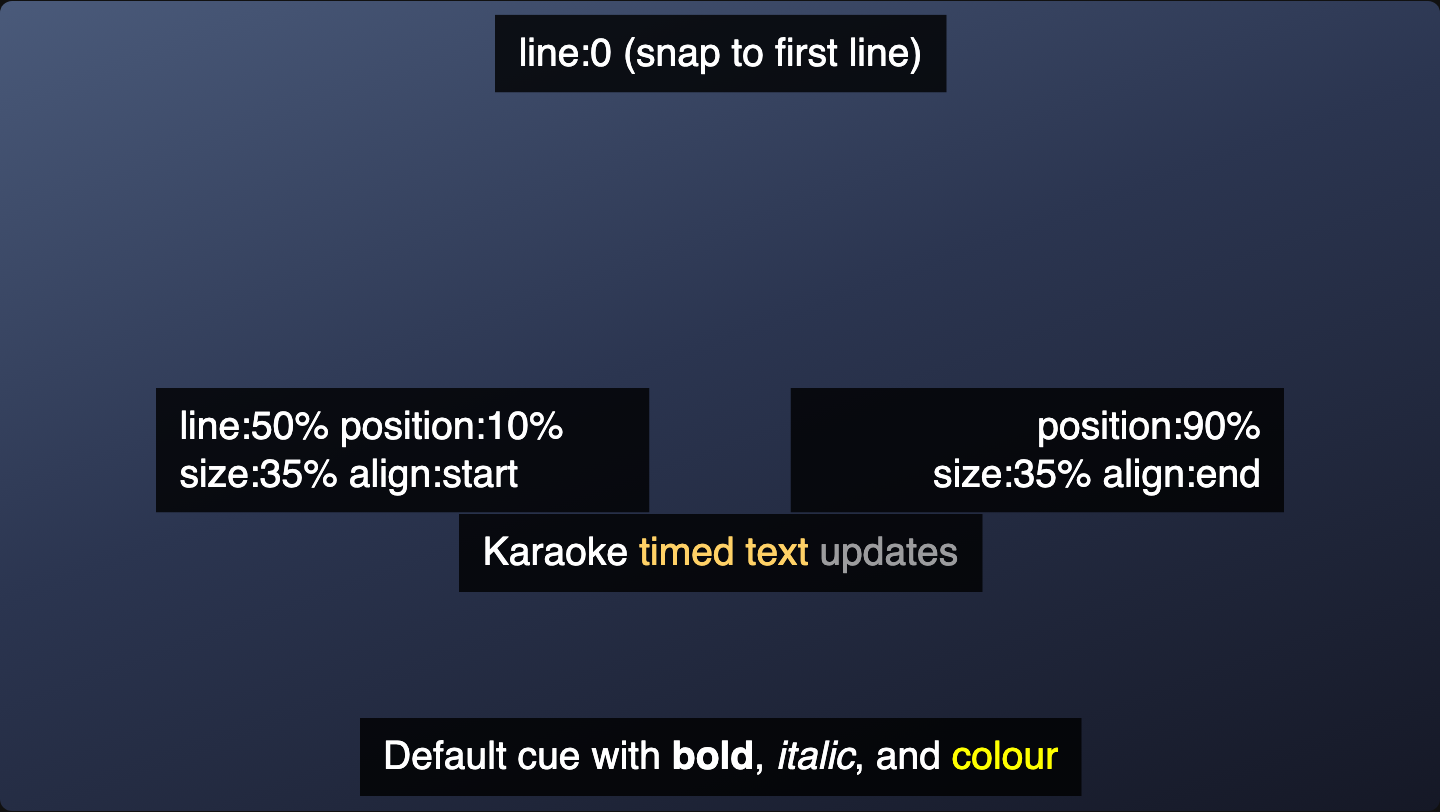
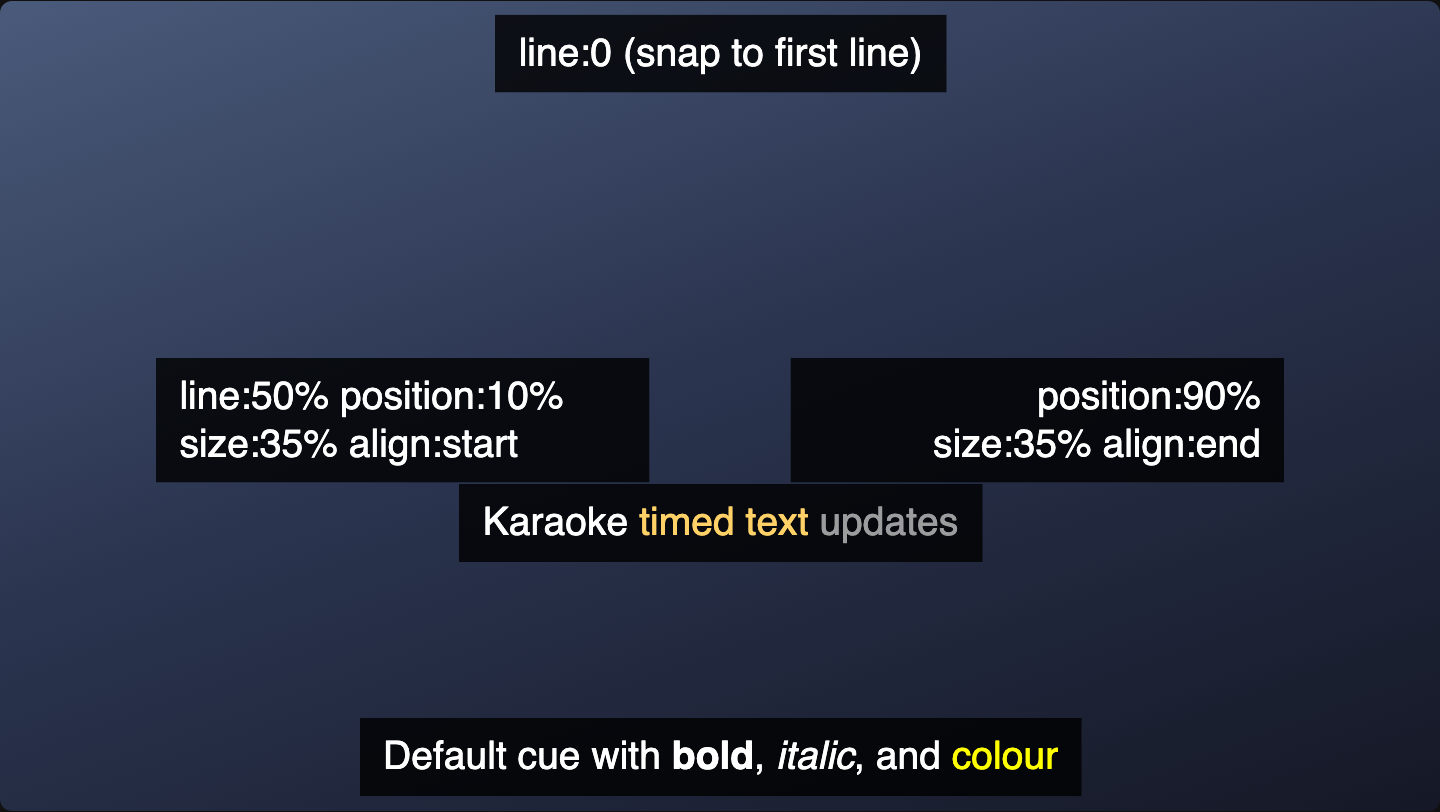
docs(sandbox): layout model, live track, and custom element scenarios with screenshots

Changed region(s): [[0.0938, 0.431, 0.9062, 0.7389]]

diff --git a/.sandbox/main.ts b/.sandbox/main.ts
@@ -1,4 +1,5 @@
-import { CaptionsRenderer, parseText, VTTCue, VTTRegion } from '../src';
+import { CaptionsRenderer, CueTrack, parseText, VTTCue, VTTRegion } from '../src';
+import { defineMediaCaptionsElement } from '../src/element';
 
 type Scenario = (
   mount: (label?: string, small?: boolean) => CaptionsRenderer,
@@ -147,6 +148,86 @@ Dialogue: 0,0:00:00.00,0:00:10.00,Default,,0,0,0,,{\\an1}{\\k60}Ka{\\k60}ra{\\k6
       renderer.overlay.style.setProperty('--cue-bg-color', 'transparent');
       renderer.changeTrack({ cues: [cue(0, 10, `${style} edge style`)] });
     }
+  },
+
+  layout(mount) {
+    // The structured cue model: parsers of positioned formats emit these instead of CSS.
+    const renderer = mount();
+    const centered = cue(0, 10, 'layout: left 50%, translate x -0.5, max-content');
+    centered.layout = { left: 50, bottom: 6, width: 'max-content', translate: { x: -0.5 } };
+    centered.textStyle = {
+      color: '#ffd166',
+      textStroke: '0.08em #1c1f2b',
+      backgroundColor: 'transparent',
+    };
+
+    const fixed = cue(0, 10, 'layout.fixed: pinned at 70% / 35%, never moved by collisions');
+    fixed.layout = {
+      left: 70,
+      top: 35,
+      width: 'max-content',
+      translate: { x: -0.5, y: -0.5 },
+      fixed: true,
+    };
+    fixed.textStyle = { fontSize: '4cqh', opacity: '0.9' };
+
+    const boxed = cue(0, 10, 'textStyle: outline box, bold, letter spacing');
+    boxed.layout = { left: 4, top: 8, width: 'max-content', maxWidth: 40 };
+    boxed.textStyle = {
+      backgroundColor: 'rgba(20, 30, 60, 0.95)',
+      outline: '0.15em solid #9cc4ff',
+      fontWeight: 'bold',
+      letterSpacing: '0.05em',
+      textAlign: 'left',
+    };
+
+    const faded = cue(0, 10, 'textStyle.animation: fade in');
+    faded.layout = { right: 4, top: 8, width: 'max-content' };
+    faded.textStyle = { animation: 'media-captions-fade-in 1.5s' };
+
+    renderer.changeTrack({ cues: [centered, fixed, boxed, faded] });
+  },
+
+  live(mount) {
+    // A CueTrack fed incrementally, the way CEA-608/708 stream decoders do in live mode.
+    const renderer = mount('CueTrack live: open-ended cues updated in place');
+    const track = new CueTrack(undefined, { retention: 30 });
+    renderer.changeTrack({ cues: track });
+
+    const first = cue(0, Infinity, 'Live caption arrives with endTime = Infinity');
+    track.add(first);
+
+    // Later the decoder learns when it ended and updates the same object.
+    first.endTime = 2;
+    track.update(first);
+
+    const second = cue(2, Infinity, 'Next caption is on screen right now');
+    track.add(second);
+    second.text = 'Next caption is on screen right now (text edited in place)';
+    track.update(second);
+  },
+
+  element(mount) {
+    // The <media-captions> custom element in light DOM (page stylesheets apply).
+    defineMediaCaptionsElement();
+    const viewport = document.createElement('div');
+    viewport.className = 'viewport';
+    const tag = document.createElement('div');
+    tag.className = 'label';
+    tag.textContent = '<media-captions edge-style="uniform">';
+    viewport.append(tag);
+    const el = document.createElement('media-captions');
+    el.setAttribute('edge-style', 'uniform');
+    viewport.append(el);
+    root.append(viewport);
+    el.load({
+      cues: [
+        cue(0, 10, 'Rendered by the <media-captions> element'),
+        cue(0, 10, 'Attributes: src, type, for, dir, edge-style, shadow', { line: 1 }),
+      ],
+    });
+    renderers.push(el.renderer);
+    void mount; // handled manually above
   },
 
   collisions(mount) {
